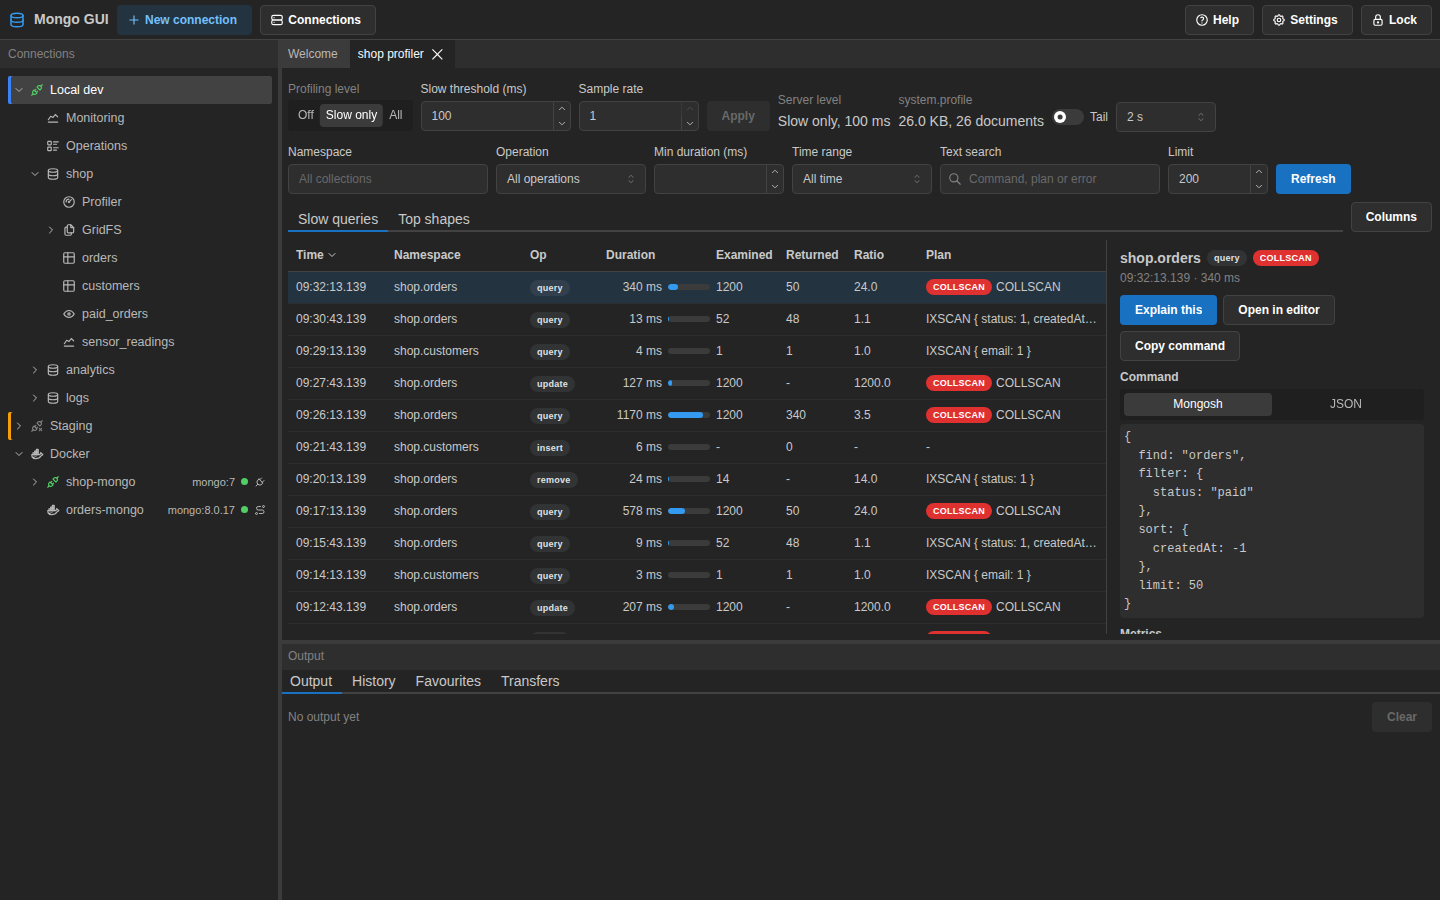
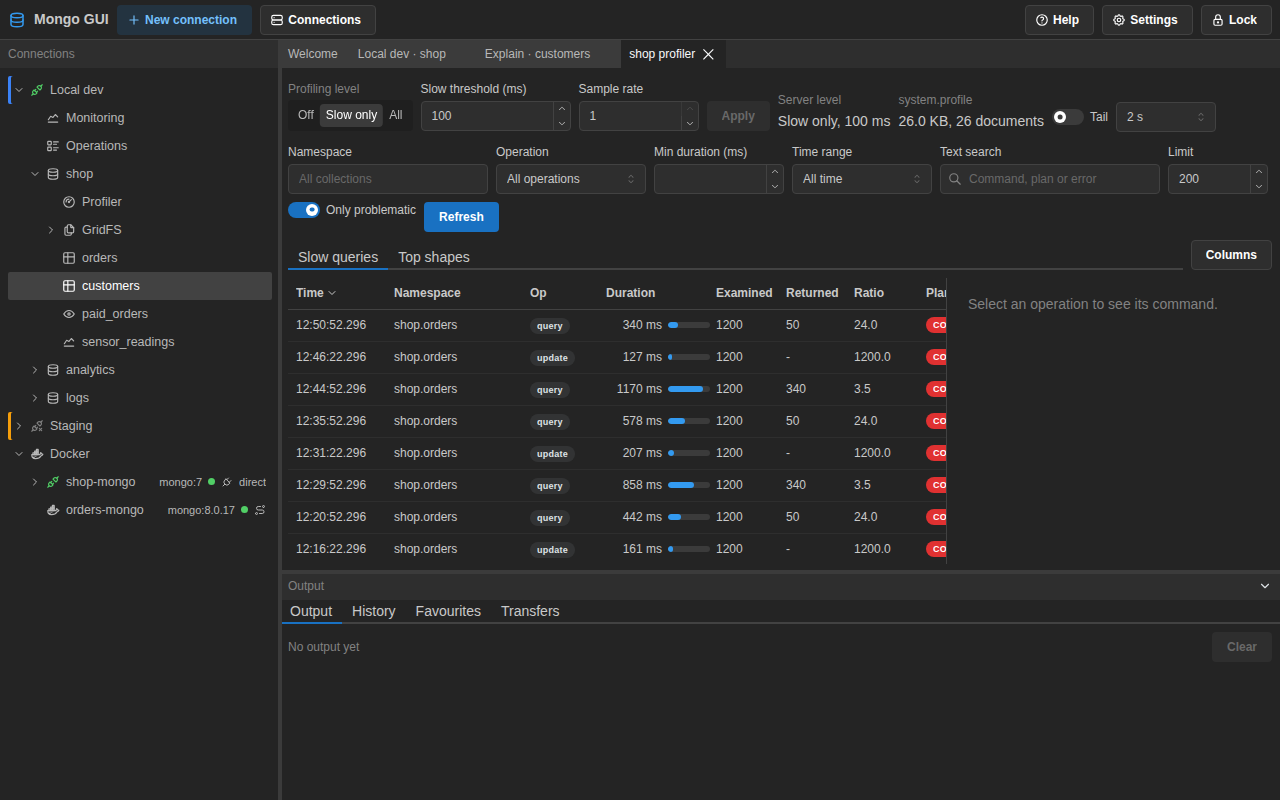
docs: changelog and guide for the output fold, completion, explain, direct connections and profiler switch

diff --git a/docs/user-guide.md b/docs/user-guide.md
@@ -102,7 +102,9 @@ in logs or in the tree. Context menus copy the URI with the password masked.
    Enter.
 
 The tree shows the server's databases once the connection opens. Choose "Disconnect" from the
-same menu to close it.
+same menu to close it. Hover the status icon to see the server topology. A replica set shows its
+set name to the right of the connection name. When the URI has `directConnection=true`, the row
+also says "direct": the app talks to that one member only, and a write to a secondary fails.
 
 ### Connection manager
 
@@ -235,7 +237,9 @@ The Output panel under the editor has four tabs: "Output", "History" and "Favour
 "Transfers". Every statement you run goes into "History". Search the history with the
 "Search history" field, or filter it by connection or database. Re-run an entry to run it again.
 "Clear history" deletes all history entries after confirmation. Favourites holds the saved
-statements. Use "Save as favourite" in the editor or in the history to add one.
+statements. Use "Save as favourite" in the editor or in the history to add one. The chevron at the
+right of the panel's tab strip folds the panel down to the tab strip, so the editor above gets the
+space. Click it again, or press Ctrl+J, to unfold it to its previous height.
 
 The app keeps the text of each open editor tab, and the tab list. The tabs come back the next
 time you open the app.
@@ -440,7 +444,11 @@ Open the profiler from the database menu with "Open profiler". The profiler has 
    threshold when the level is "Slow only".
 3. Use the filters to narrow the list. The filters cover the namespace, the operation, the
    minimum duration in "Min duration (ms)", and a time range. The time range options are
-   "Last 5 min", "Last 15 min", "Last hour", "All time" and "Custom".
+   "Last 5 min", "Last 15 min", "Last hour", "All time" and "Custom". Turn on "Only
+   problematic" to hide rows that look fine. A row stays when its plan has a COLLSCAN, the server
+   sorted in memory, it examined more than 100 documents per document returned, or it examined
+   more than 1000 documents and returned none. This switch filters the loaded rows and does not
+   change the server query.
 4. Turn on "Tail" to read new entries as they arrive. "Tail poll interval" sets how often the
    app checks, from 0.5 s to 10 s.
 5. Select an entry to read its command, plan summary and lock statistics in the detail pane.

diff --git a/CHANGELOG.md b/CHANGELOG.md
@@ -6,7 +6,16 @@ All notable changes to Mongo GUI are listed here, newest first.
 
 ### Added
 
+- "Only problematic" in the profiler filter row hides slow query rows without a COLLSCAN, an
+  in-memory sort or a high examined-to-returned ratio. It filters the loaded rows in the app.
 - Right-click on a table cell offers "Copy value", "Copy key" and "Copy document".
+- The Output panel folds down to its tab strip with the chevron at the right of its tabs or with
+  Mod+J, and unfolds to its previous height.
+- Field completion lists top-level fields before nested paths and returns up to 1,000 entries,
+  so a collection with a large keyed map no longer hides its other fields.
+- The Explain panel's Raw view fills the panel height.
+- A connection with `directConnection=true` to a replica set member shows the set name and
+  "direct" in the connection tree, in the status tooltip and in the monitor header.
 - Exports selected connections to a file encrypted with AES-256-GCM under a scrypt key from a
   passphrase of at least 10 characters. Each export uses a new salt and IV.
 - Imports a connections file after its passphrase is typed. Name collisions can skip, rename or
